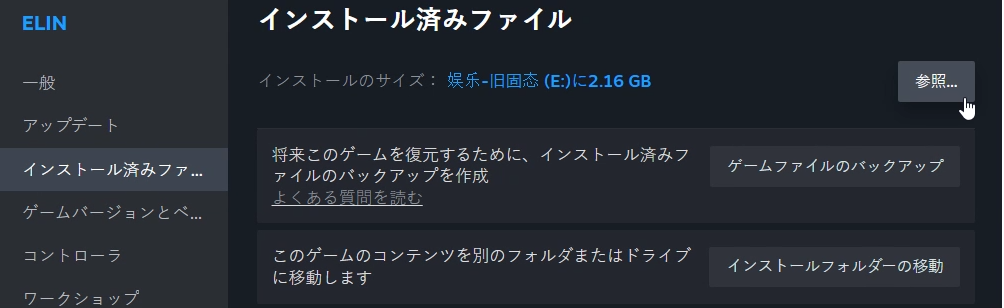
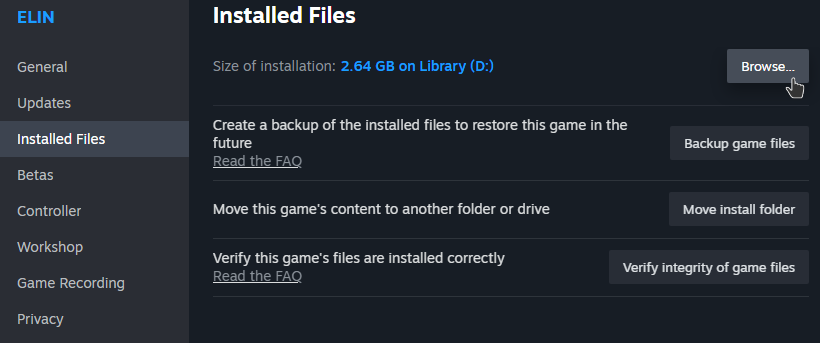
update portraits.md&character.md 【CN】

diff --git a/zh/articles/15_Texture Mods/portraits.md b/zh/articles/15_Texture Mods/portraits.md
@@ -53,4 +53,12 @@ Elin的肖像（Portrait） ，也叫立绘。
 
 你可以通过提供一个具有相同肖像 ID 的文件，来覆盖这些独特 NPC 的默认肖像。
 
-此外，制作角色Mod时，也是通过 `UN_` 开头来锁定立绘（固定立绘）。
+## 新角色 Mod 的肖像
+
+制作新角色Mod时，也是通过 `UN_` 开头来锁定角色肖像（固定立绘）。
+
+您应提供命名为 `UN_id.png` 的透明背景图片作为肖像。
+
++ **尺寸:** 宽:高=3:4 （最好是240x320，否则缩放可能影响图片质量。）
++ **背景：**透明
++ **文件命名：** `UN_id.png`  （其中 `id`是您角色的id，即您在 [角色源表](../10_Source%20Sheets/character) 的id列里的填写的内容）